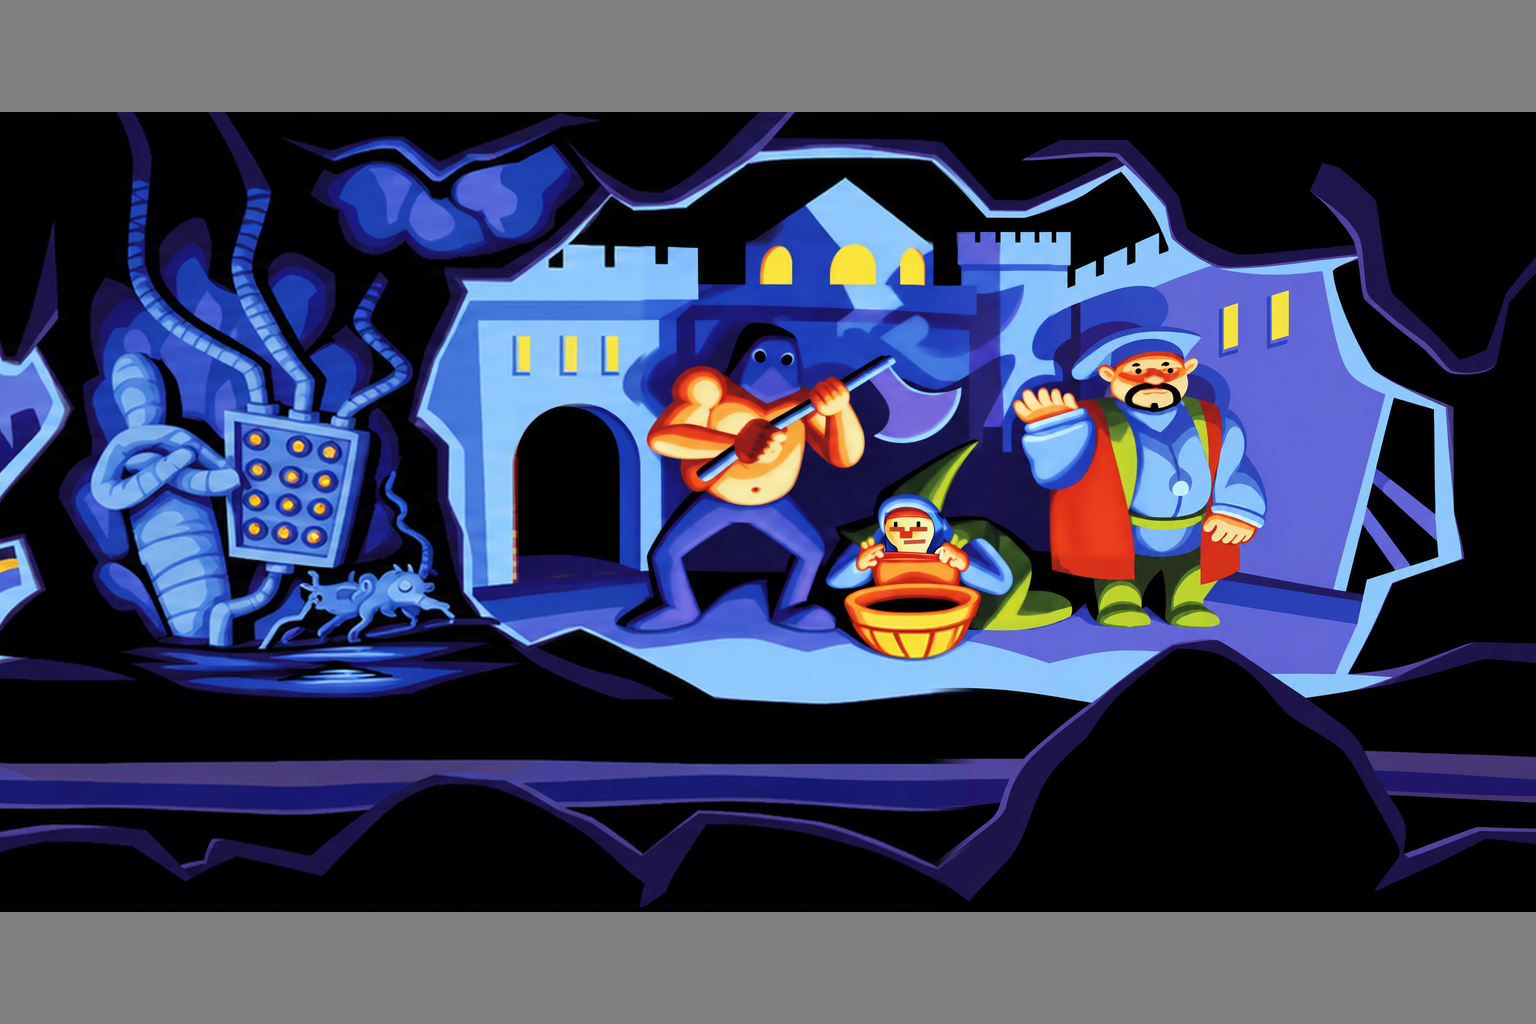
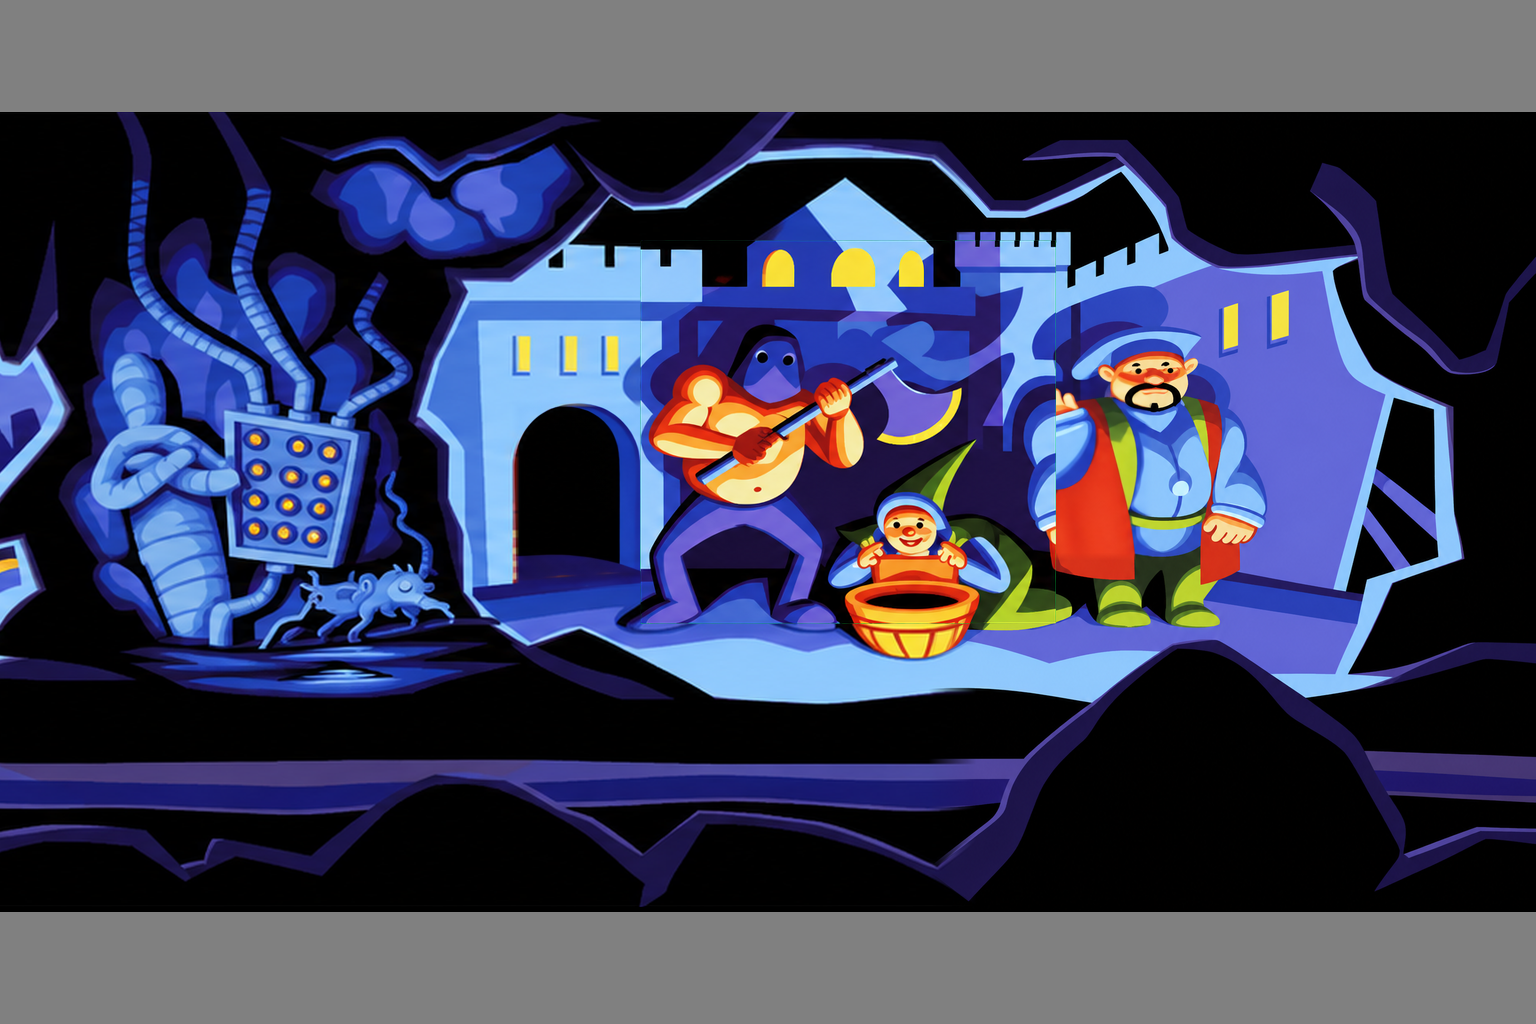
GPT: hele animasjonsmotiver og alfa, lag017_04_del2av2, lag022_02_del3av3, lag030_01_del1av2, lag030_04_del1av2, lag030_07_del1av2, lag037_03_del1av2, lag037_04_del2av2

Changed region(s): [[0.4062, 0.2188, 0.6875, 0.625]]

diff --git a/jobber/lag022_02_del3av3/notat.md b/jobber/lag022_02_del3av3/notat.md
@@ -7,3 +7,9 @@ Innebygd ChatGPT image_gen, forsøk 2; eksakt bildemodell eksponeres ikke av ver
 Egenkontroll OK med uendret sjekk_leveranse.py og eksplisitt kontroll av hvert objektfelt. Resultat SHA-256: c370ea60ba28f3660fcbb203ebef7ef23d3664a291611ee93deb495ad069bab5. Fire kildehash for jobben står i b-leveranser.json; alle 40 batchkilder og 16 ekstra kontekstfiler er uendret. Resultatet er opakt RGB 1536 × 1024 med eksakt grå padding. Utenfor metadataunionen er riktig levert HD-grunnrom byteidentisk.
 
 Vanlig helskalering og fjæring langs rektanglenes samlede ytterkant brukes på nye bilder. Ingen originalsilhuettmasker, kildepikselkopiering, lokal warp eller vektortrace. De to 022-ansiktene er lokalt korrigert med ett felles source-identisk imagegen-utsnitt: flat oransjebrun nese/munn, små rette øyne, ingen rund rød nese, øyenbryn eller smil. Bare boksen [884,512,60,48] endres ved denne rettingen; b-ansiktsretting.json beviser uendret rest. Forbehold: renere, tykkere gullkanter, mer avrundede ansikter/fingre/tenner og mer modellerte materialer enn originalen. Små tone- og strekforskjeller mellom nytegning og grunnrom består. Teknisk OK er ikke semantisk sertifisering av hver lavoppløst detalj. Runtime=false og ny individuell brukergodkjenning=false. Se b-kilde-qa.md.
+
+## Retting 15. oktober 2026: hele motiver og alfa
+
+Nytegnet komplett motiv før mottakets lappklipp, med eksisterende HD-rom som stilgrunnlag. Innebygd bildeverktøy, eksakt modellnavn ikke eksponert. Python brukt til rensing og plassering etter Toms uttrykkelige tillatelse. Beskyttede originaler, jobbmetadata og prompter uendret.
+
+Egenkontroll: OK. Se [rapport, prompter, forsøk og SHA-256](../../rapporter/lapper-eske-logo-20261015/RAPPORT.md). Ingen ny motorimport eller spilltest av denne rettingen.

diff --git a/jobber/lag017_04_del2av2/notat.md b/jobber/lag017_04_del2av2/notat.md
@@ -7,3 +7,9 @@ Egne smale røde/gule/grønne fragmenter og fire propellarmer, inklusive den nes
 Alle synlige objektfelt fra begge deler inngår i en felles 2528 × 800-master. Klipp x = 0 og 992, 544 × 800 byteidentisk overlapp. Nytegnet HD-grunnrom gjenbrukes utenfor sammensettingsfeltene. Hel skalering, rektangulær innplassering, 3 px kantfjæring og jevnt bilineært RGB-tonefelt på nytegnete vimpler; ingen originalpiksler, originalsilhuettmasker, lokal geometriwarp eller vektortrace.
 
[1 lines of base64/hex data omitted]
+
+## Retting 15. oktober 2026: hele motiver og alfa
+
+Nytegnet komplett motiv før mottakets lappklipp, med eksisterende HD-rom som stilgrunnlag. Innebygd bildeverktøy, eksakt modellnavn ikke eksponert. Python brukt til rensing og plassering etter Toms uttrykkelige tillatelse. Beskyttede originaler, jobbmetadata og prompter uendret.
+
+Egenkontroll: SJEKK. Se [rapport, prompter, forsøk og SHA-256](../../rapporter/lapper-eske-logo-20261015/RAPPORT.md). Ingen ny motorimport eller spilltest av denne rettingen.

diff --git a/jobber/lag030_01_del1av2/notat.md b/jobber/lag030_01_del1av2/notat.md
@@ -9,3 +9,9 @@ De små gnistene er komponert fra komponenter i det faktisk nygenererte bildet. 
[1 lines of base64/hex data omitted]
 
 Visuell egenkontroll er gjort samlet for sju tilstander i 32/b-030-sluttfamilie.png. Nye gnister er glattere og noen små former rundere enn kildepikslene. Kikkertkant og ledninger har kraftigere modellering; øvrig grunnrom er bevart. Dette er tegningsforbehold, ikke runtimebevis. Runtime og ny individuell brukergodkjenning er false. Root gjør uavhengig mottakskontroll.
+
+## Retting 15. oktober 2026: hele motiver og alfa
+
+Nytegnet komplett motiv før mottakets lappklipp, med eksisterende HD-rom som stilgrunnlag. Innebygd bildeverktøy, eksakt modellnavn ikke eksponert. Python brukt til rensing og plassering etter Toms uttrykkelige tillatelse. Beskyttede originaler, jobbmetadata og prompter uendret.
+
+Egenkontroll: OK. Se [rapport, prompter, forsøk og SHA-256](../../rapporter/lapper-eske-logo-20261015/RAPPORT.md). Ingen ny motorimport eller spilltest av denne rettingen.

diff --git a/jobber/lag030_04_del1av2/notat.md b/jobber/lag030_04_del1av2/notat.md
@@ -9,3 +9,9 @@ De små gnistene er komponert fra komponenter i det faktisk nygenererte bildet. 
[1 lines of base64/hex data omitted]
 
 Visuell egenkontroll er gjort samlet for sju tilstander i 32/b-030-sluttfamilie.png. Nye gnister er glattere og noen små former rundere enn kildepikslene. Kikkertkant og ledninger har kraftigere modellering; øvrig grunnrom er bevart. Dette er tegningsforbehold, ikke runtimebevis. Runtime og ny individuell brukergodkjenning er false. Root gjør uavhengig mottakskontroll.
+
+## Retting 15. oktober 2026: hele motiver og alfa
+
+Nytegnet komplett motiv før mottakets lappklipp, med eksisterende HD-rom som stilgrunnlag. Innebygd bildeverktøy, eksakt modellnavn ikke eksponert. Python brukt til rensing og plassering etter Toms uttrykkelige tillatelse. Beskyttede originaler, jobbmetadata og prompter uendret.
+
+Egenkontroll: OK. Se [rapport, prompter, forsøk og SHA-256](../../rapporter/lapper-eske-logo-20261015/RAPPORT.md). Ingen ny motorimport eller spilltest av denne rettingen.

diff --git a/jobber/lag030_07_del1av2/notat.md b/jobber/lag030_07_del1av2/notat.md
@@ -9,3 +9,9 @@ De små gnistene er komponert fra komponenter i det faktisk nygenererte bildet. 
[1 lines of base64/hex data omitted]
 
 Visuell egenkontroll er gjort samlet for sju tilstander i 32/b-030-sluttfamilie.png. Nye gnister er glattere og noen små former rundere enn kildepikslene. Kikkertkant og ledninger har kraftigere modellering; øvrig grunnrom er bevart. Dette er tegningsforbehold, ikke runtimebevis. Runtime og ny individuell brukergodkjenning er false. Root gjør uavhengig mottakskontroll.
+
+## Retting 15. oktober 2026: hele motiver og alfa
+
+Nytegnet komplett motiv før mottakets lappklipp, med eksisterende HD-rom som stilgrunnlag. Innebygd bildeverktøy, eksakt modellnavn ikke eksponert. Python brukt til rensing og plassering etter Toms uttrykkelige tillatelse. Beskyttede originaler, jobbmetadata og prompter uendret.
+
+Egenkontroll: OK. Se [rapport, prompter, forsøk og SHA-256](../../rapporter/lapper-eske-logo-20261015/RAPPORT.md). Ingen ny motorimport eller spilltest av denne rettingen.

diff --git a/jobber/lag037_03_del1av2/notat.md b/jobber/lag037_03_del1av2/notat.md
@@ -12,3 +12,9 @@ Original SHA-256: 2a928ab404220dec4873a8b8b3bfe6b4f5a1826185703923e6232578b18806
 Resultat SHA-256: ea8a1680c7e75ec502b008098580c1cd2bd82baf835ed08401be4ec3ab90c377
 
 Runtime: false. Ny individuell brukergodkjenning: false.
+
+## Retting 15. oktober 2026: hele motiver og alfa
+
+Nytegnet komplett motiv før mottakets lappklipp, med eksisterende HD-rom som stilgrunnlag. Innebygd bildeverktøy, eksakt modellnavn ikke eksponert. Python brukt til rensing og plassering etter Toms uttrykkelige tillatelse. Beskyttede originaler, jobbmetadata og prompter uendret.
+
+Egenkontroll: OK. Se [rapport, prompter, forsøk og SHA-256](../../rapporter/lapper-eske-logo-20261015/RAPPORT.md). Ingen ny motorimport eller spilltest av denne rettingen.

diff --git a/jobber/lag037_04_del2av2/notat.md b/jobber/lag037_04_del2av2/notat.md
@@ -10,3 +10,9 @@ Original SHA-256: a1e97ab8827cb342f1ca622c29f6fedeadecf1eb9687dfd24e6e80d44474dd
 Resultat SHA-256: cbb89fc6140f4efc38ee8e1faf3ece623dcbe709815b59d5d17162665b118344
 
 Runtime: false. Ny individuell brukergodkjenning: false.
+
+## Retting 15. oktober 2026: hele motiver og alfa
+
+Nytegnet komplett motiv før mottakets lappklipp, med eksisterende HD-rom som stilgrunnlag. Innebygd bildeverktøy, eksakt modellnavn ikke eksponert. Python brukt til rensing og plassering etter Toms uttrykkelige tillatelse. Beskyttede originaler, jobbmetadata og prompter uendret.
+
+Egenkontroll: OK. Se [rapport, prompter, forsøk og SHA-256](../../rapporter/lapper-eske-logo-20261015/RAPPORT.md). Ingen ny motorimport eller spilltest av denne rettingen.
